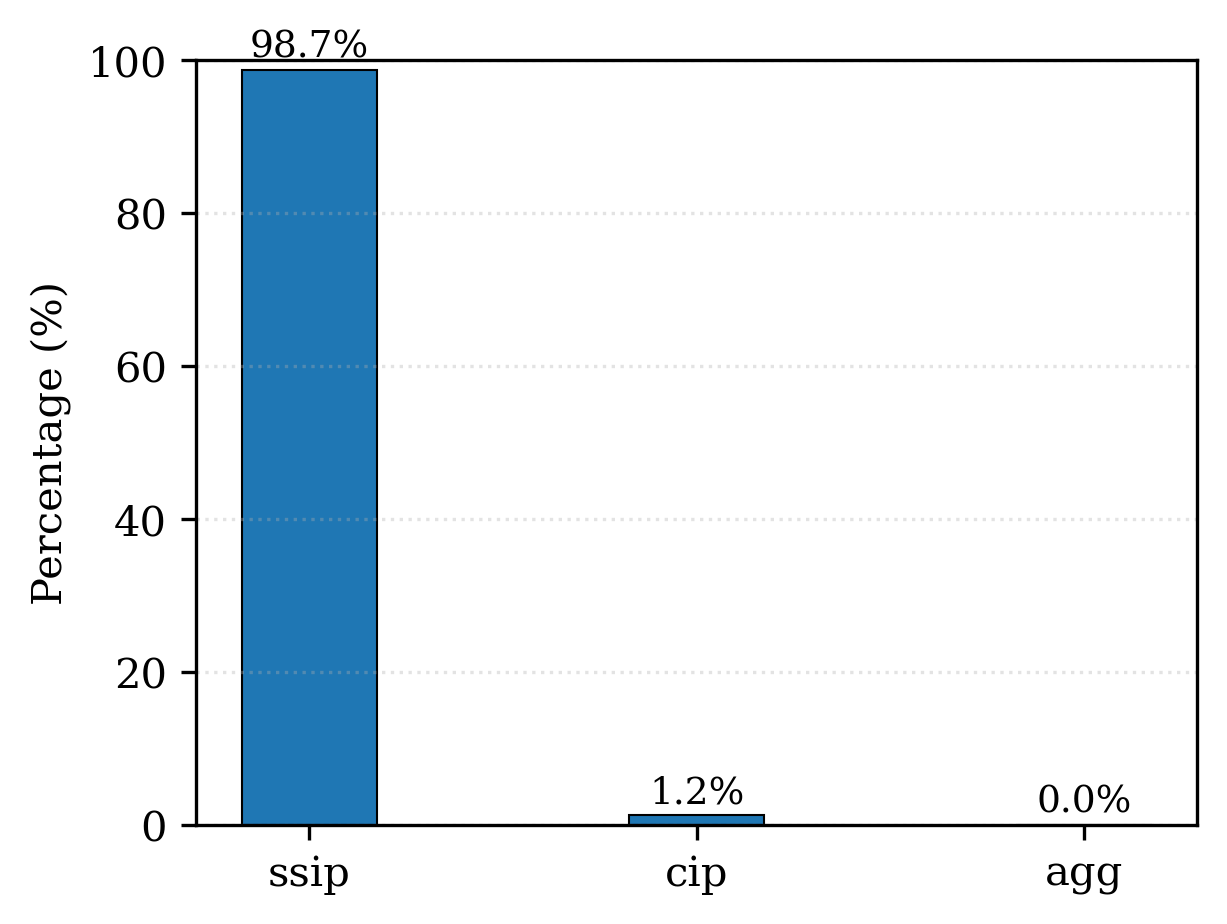
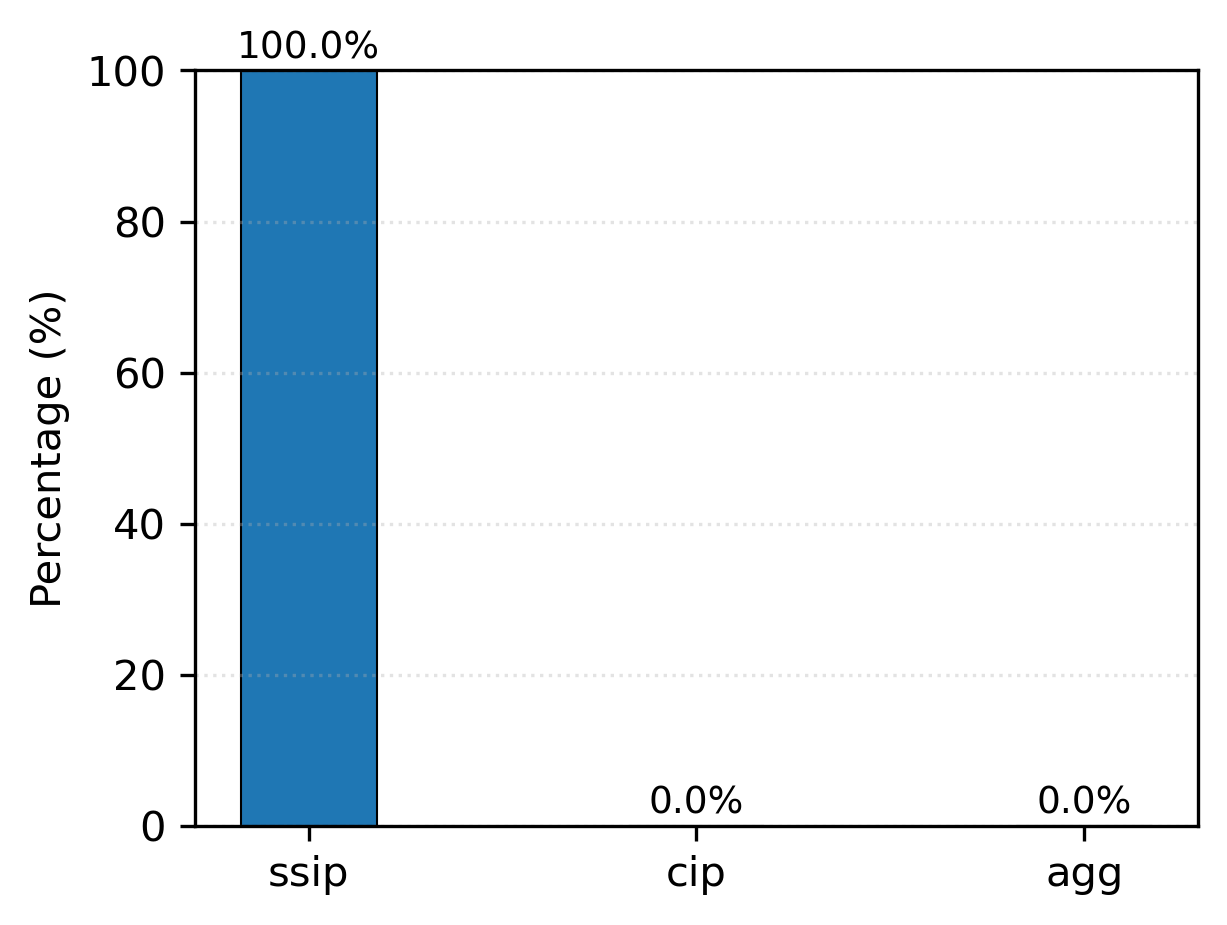
update

diff --git a/activity_coef/plot_DH-B.py b/activity_coef/plot_DH-B.py
@@ -1,0 +1,113 @@
+import numpy as np
+import matplotlib.pyplot as plt
+
+# ============================================================
+# Physical constants (SI)
+# ============================================================
+e = 1.602176634e-19
+eps0 = 8.8541878128e-12
+kB = 1.380649e-23
+NA = 6.02214076e23
+T = 298.0
+
+# ============================================================
+# Water properties
+# ============================================================
+EPS_WATER = 78.3
+RHO_WATER = 997.0  # kg m^-3
+
+# ============================================================
+# Concentration range (mol kg^-1)
+# ============================================================
+c = np.linspace(0.01, 4.0, 300)
+
+# ============================================================
+# PARAMETERS
+# ============================================================
+
+# --- DH dielectric (Eq. 11) + ionic size (SI Table 2)
+DH_PARAMS = {
+    "LiCl": {"beta": 1.53, "lambda": 0.13, "a": (0.60 + 1.81) * 1e-10},
+    "NaCl": {"beta": 1.92, "lambda": 0.10, "a": (0.95 + 1.81) * 1e-10},
+    "KCl":  {"beta": 0.97, "lambda": 0.17, "a": (1.33 + 1.81) * 1e-10},
+}
+
+# --- Born dielectric (SI Table 9)
+BORN_DIELECTRIC = {
+    "LiCl": {"A": 12.41, "B": 3.02},
+    "NaCl": {"A": 20.15, "B": 5.85},
+    "KCl":  {"A": 20.13, "B": 5.20},
+}
+
+# --- Born radii (EXPERIMENTAL, SI Table 3)
+BORN_RADII = {
+    "LiCl": {"R_plus": 1.30e-10, "R_minus": 2.26e-10},
+    "NaCl": {"R_plus": 1.62e-10, "R_minus": 2.26e-10},
+    "KCl":  {"R_plus": 1.95e-10, "R_minus": 2.26e-10},
+}
+
+# ============================================================
+# FUNCTIONS
+# ============================================================
+
+# ---------- DH part ----------
+def epsilon_r_dh(c, beta, lam):
+    return EPS_WATER * np.exp(-beta * np.arctan(lam * c))
+
+def zeta(eps_r):
+    return e**2 / (8.0 * np.pi * eps0 * eps_r * kB * T)
+
+def kappa(c, eps_r):
+    return np.sqrt(
+        (NA * e**2 * RHO_WATER * 2.0 * c) /
+        (eps0 * eps_r * kB * T)
+    )
+
+def ln_gamma_dh(c, eps_r, a):
+    kap = kappa(c, eps_r)
+    return -(zeta(eps_r) * kap) / (1.0 + kap * a)
+
+
+# ---------- Born part ----------
+def epsilon_r_poly(c, A, B):
+    return EPS_WATER - A * c + B * c**1.5
+
+def ln_gamma_born_single(eps_r, eps_r_0, R_i):
+    pref = e**2 / (8.0 * np.pi * eps0 * kB * T * R_i)
+    return pref * ((1.0 / eps_r) - (1.0 / eps_r_0))
+
+def ln_gamma_born_mean(c, A, B, R_plus, R_minus):
+    eps = epsilon_r_poly(c, A, B)
+    eps0 = epsilon_r_poly(0.0, A, B)
+
+    ln_g_p = ln_gamma_born_single(eps, eps0, R_plus)
+    ln_g_m = ln_gamma_born_single(eps, eps0, R_minus)
+
+    return 0.5 * (ln_g_p + ln_g_m)
+
+# ============================================================
+# COMPUTE & PLOT ln γ_{±}^{DH+B}
+# ============================================================
+plt.figure(figsize=(6, 4))
+
+for salt in DH_PARAMS:
+    # DH contribution
+    eps_dh = epsilon_r_dh(c, DH_PARAMS[salt]["beta"], DH_PARAMS[salt]["lambda"])
+    ln_dh = ln_gamma_dh(c, eps_dh, DH_PARAMS[salt]["a"])
+
+    # Born contribution
+    A = BORN_DIELECTRIC[salt]["A"]
+    B = BORN_DIELECTRIC[salt]["B"]
+    R_p = BORN_RADII[salt]["R_plus"]
+    R_m = BORN_RADII[salt]["R_minus"]
+
+    ln_b = ln_gamma_born_mean(c, A, B, R_p, R_m)
+
+    # Total
+    plt.plot(c, ln_dh + ln_b, label=salt)
+
+plt.xlabel("c (mol kg$^{-1}$)")
+plt.ylabel("ln γ$_{±}^{DH+B}$")
+plt.legend()
+plt.tight_layout()
+plt.show()

diff --git a/activity_coef/plot_B.py b/activity_coef/plot_B.py
@@ -1,0 +1,104 @@
+import numpy as np
+import matplotlib.pyplot as plt
+
+# ============================================================
+# Physical constants (SI)
+# ============================================================
+e = 1.602176634e-19        # C
+eps0 = 8.8541878128e-12   # F m^-1
+kB = 1.380649e-23         # J K^-1
+T = 298.0                 # K
+
+# ============================================================
+# Water permittivity at infinite dilution
+# ============================================================
+EPS_SOLV = 78.3  # εr of pure water
+
+# ============================================================
+# Concentration range (mol kg^-1)
+# ============================================================
+c = np.linspace(0.01, 4.0, 300)
+
+# ============================================================
+# Dielectric decrement parameters (SI Table 9)
+# ε(c) = ε_solv − A c + B c^(3/2)
+# ============================================================
+DIELECTRIC_PARAMS = {
+    "LiCl": {"A": 12.41, "B": 3.02},
+    "NaCl": {"A": 20.15, "B": 5.85},
+    "KCl":  {"A": 20.13, "B": 5.20},
+}
+
+# ============================================================
+# Born radii (EXPERIMENTAL, SI Table 3) [m]
+# ============================================================
+BORN_RADII = {
+    "LiCl": {"R_plus": 1.30e-10, "R_minus": 2.26e-10},
+    "NaCl": {"R_plus": 1.62e-10, "R_minus": 2.26e-10},
+    "KCl":  {"R_plus": 1.95e-10, "R_minus": 2.26e-10},
+}
+
+# ============================================================
+# Functions
+# ============================================================
+def epsilon_r_poly(c, A, B):
+    """Polynomial dielectric decrement (SI Table 9)"""
+    return EPS_SOLV - A * c + B * c**1.5
+
+
+def ln_gamma_born_single(eps_r, eps_r_0, R_i):
+    """
+    Single-ion Born contribution ln γ_B,i
+    Main text Eq. (4), reduced free energy
+    """
+    prefactor = e**2 / (8.0 * np.pi * eps0 * kB * T * R_i)
+    return prefactor * ((1.0 / eps_r) - (1.0 / eps_r_0))
+
+
+def ln_gamma_born_mean(c, A, B, R_plus, R_minus):
+    """
+    Mean Born activity coefficient ln γ_B±
+    Supplementary Eq. (3), 1:1 electrolyte
+    """
+    eps = epsilon_r_poly(c, A, B)
+    eps0 = epsilon_r_poly(0.0, A, B)
+
+    ln_g_plus = ln_gamma_born_single(eps, eps0, R_plus)
+    ln_g_minus = ln_gamma_born_single(eps, eps0, R_minus)
+
+    return 0.5 * (ln_g_plus + ln_g_minus)
+
+# ============================================================
+# Plot: ln γ_B± and εr(c)
+# ============================================================
+plt.figure(figsize=(10, 4))
+
+# --- Left: ln γ_B± ---
+plt.subplot(1, 2, 1)
+for salt in DIELECTRIC_PARAMS:
+    A = DIELECTRIC_PARAMS[salt]["A"]
+    B = DIELECTRIC_PARAMS[salt]["B"]
+    R_p = BORN_RADII[salt]["R_plus"]
+    R_m = BORN_RADII[salt]["R_minus"]
+
+    ln_gB = ln_gamma_born_mean(c, A, B, R_p, R_m)
+    plt.plot(c, ln_gB, label=salt)
+
+plt.xlabel("c (mol kg$^{-1}$)")
+plt.ylabel("ln γ$_{±}^{B}$")
+plt.legend()
+
+# --- Right: εr(c) ---
+plt.subplot(1, 2, 2)
+for salt in DIELECTRIC_PARAMS:
+    A = DIELECTRIC_PARAMS[salt]["A"]
+    B = DIELECTRIC_PARAMS[salt]["B"]
+    plt.plot(c, epsilon_r_poly(c, A, B), label=salt)
+
+plt.xlabel("c (mol kg$^{-1}$)")
+plt.ylabel("ε$_r$")
+plt.legend()
+
+plt.tight_layout()
+plt.show()
+

diff --git a/activity_coef/plot_DH.py b/activity_coef/plot_DH.py
@@ -1,0 +1,107 @@
+"""
+Extended Debye–Hückel (DH) activity coefficient
+Fully corrected and SI-consistent
+
+Sources:
+- Main manuscript Eq. (2) and (3)
+- Supplementary Table 2: ionic radii
+- Supplementary Table 6: water density (ρ = 0.9970 g/cm^3 at 298 K)
+- Eq. (11): εr(c)
+
+System:
+LiCl, NaCl, KCl in water at 298 K
+"""
+
+import numpy as np
+import matplotlib.pyplot as plt
+
+# -----------------------------
+# Physical constants (SI)
+# -----------------------------
+e = 1.602176634e-19        # C
+eps0 = 8.8541878128e-12   # F m^-1
+kB = 1.380649e-23         # J K^-1
+NA = 6.02214076e23        # mol^-1
+T = 298.0                 # K
+
+# -----------------------------
+# Water properties at 298 K
+# -----------------------------
+EPS_WATER = 78.3                  # dielectric constant
+RHO_WATER = 997.0                 # kg m^-3 (Supplementary Table 6)
+
+# -----------------------------
+# εr(c) parameters + ionic size
+# Ionic radii from Supplementary Table 2
+# a = r+ + r-
+# -----------------------------
+PARAMS = {
+    "LiCl": {"beta": 1.53, "lambda": 0.13, "a": (0.60 + 1.81) * 1e-10},
+    "NaCl": {"beta": 1.92, "lambda": 0.10, "a": (0.95 + 1.81) * 1e-10},
+    "KCl":  {"beta": 0.97, "lambda": 0.17, "a": (1.33 + 1.81) * 1e-10},
+}
+
+# -----------------------------
+# Concentration range (mol kg^-1)
+# -----------------------------
+c = np.linspace(0.01, 4.0, 200)
+
+# -----------------------------
+# Functions
+# -----------------------------
+def epsilon_r(c, beta, lam):
+    """Static permittivity εr(c), Eq. (11)"""
+    return EPS_WATER * np.exp(-beta * np.arctan(lam * c))
+
+def zeta(eps_r):
+    """Electrostatic prefactor ζ (Eq. 3)"""
+    return e**2 / (8.0 * np.pi * eps0 * eps_r * kB * T)
+
+def kappa(c, eps_r):
+    """
+    Debye screening parameter κ (Eq. 3)
+    Correct conversion from molality to number density
+    """
+    # Σ z_i^2 c_i = 2c for 1:1 electrolyte
+    sum_z2_c = 2.0 * c
+
+    return np.sqrt(
+        (NA * e**2 * RHO_WATER * sum_z2_c) /
+        (eps0 * eps_r * kB * T)
+    )
+
+def ln_gamma_dh(c, eps_r, a):
+    """Extended Debye–Hückel activity coefficient (Eq. 2)"""
+    kap = kappa(c, eps_r)
+    return -(zeta(eps_r) * kap) / (1.0 + kap * a)
+
+# -----------------------------
+# Plot: two subplots
+# -----------------------------
+plt.figure(figsize=(10, 4))
+
+# Left: ln gamma_DH
+plt.subplot(1, 2, 1)
+for salt, p in PARAMS.items():
+    eps = epsilon_r(c, p["beta"], p["lambda"])
+    plt.plot(c, ln_gamma_dh(c, eps, p["a"]), label=salt)
+
+plt.xlabel("Concentration (mol kg$^{-1}$)")
+plt.ylabel("ln γ$_{±}^{DH}$")
+plt.legend()
+
+# Right: epsilon_r
+plt.subplot(1, 2, 2)
+for salt, p in PARAMS.items():
+    eps = epsilon_r(c, p["beta"], p["lambda"])
+    plt.plot(c, eps, label=salt)
+
+plt.xlabel("Concentration (mol kg$^{-1}$)")
+plt.ylabel("ε$_r$")
+plt.legend()
+
+plt.tight_layout()
+plt.show()
+
+
+

diff --git a/builder.py b/builder.py
@@ -173,17 +173,27 @@ analysis = TrajAnalysis(
 )
 
 
-print("\n===== Calculating ion association =====")
+print("\n===== Calculating solvatation structure =====")
 
-analysis.ion_cluster_population(
+df = analysis.coordination_type(
     run_start = 1500, 
     run_end = 3000, 
+    distance = 2.7, 
     center_atom = mol_dict["Li"], 
-    counter_atom = mol_dict["PF6"],
-    distance=2.7,
-    core = 2,
+    counter_atom = mol_dict["PF6"]
 )
-print("Writing files in ion_association folder")
+print("Writing files in solvatation_structure folder")
+print("Consider:")
+print("*Solvent-separated ion pairs (SSIP)")
+print("*Contact ion pairs (CIP)")
+print("*Aggregate (AGG)")
+
+for _, row in df.iterrows():
+    print(f"{row['Solvation structure'].upper():>4s}  = {row['Percentage']}")
+
+
+
+
 
 
 """
@@ -235,6 +245,17 @@ for solvent in args.solvents:
     )
 print("Writing files in coordination_files folder")
 
+print("\n===== Calculating ion association =====")
+
+analysis.ion_cluster_population(
+    run_start = 1500, 
+    run_end = 3000, 
+    center_atom = mol_dict["Li"], 
+    counter_atom = mol_dict["PF6"],
+    distance=2.7,
+    core = 2,
+)
+print("Writing files in ion_association folder")
 
 print("===== Calculating conductivity =====")
 cond = analysis.conductivity()
